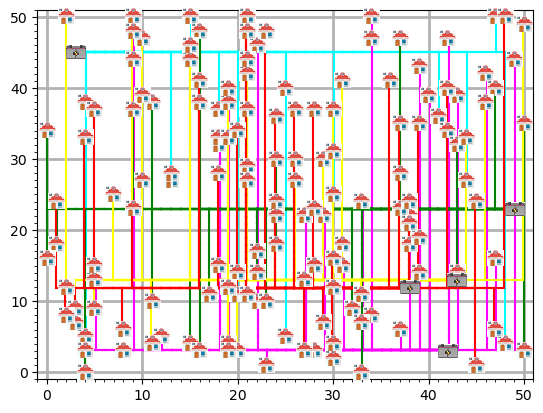
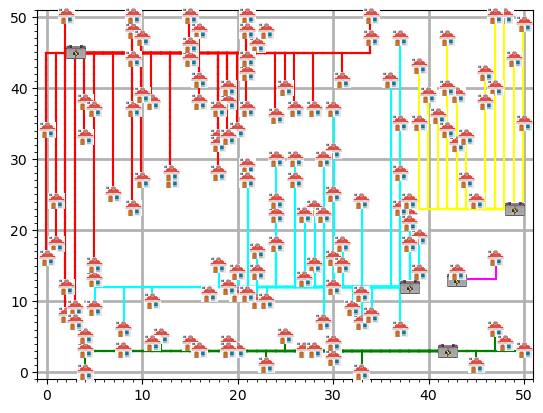
best en worst case

diff --git a/tests/test.py b/tests/test.py
@@ -13,6 +13,8 @@ from models.Grid import Grid
 from algorithms.randomize_dist_cap import dist_cap_algorithm
 from algorithms.randomize_cable_dist_cap import rand_cable_dist_cap
 from algorithms.randomize import rand_algorithm, rand_one_to_one_algorithm
+from algorithms.worst_dist_no_capacity_restrictions import worst_dist
+from algorithms.best_dist_no_capacity_restrictions import best_dist
 from visualisation.plot_grid import draw
 
 # Main functie
@@ -32,7 +34,7 @@ def main():
 
     sys_algorithm = sys.argv[2]
 
-    if sys_algorithm not in ['1', '2', '3']:
+    if sys_algorithm not in ['1', '2', '3', '4', '5']:
         print("No such algorithm!")
         exit(1)
 
@@ -48,7 +50,7 @@ def main():
         print("Shared must be 0 or 1")
         exit(1)
 
-    algorithms = {'1': rand_one_to_one_algorithm, '2': dist_cap_algorithm, '3': rand_cable_dist_cap}
+    algorithms = {'1': rand_one_to_one_algorithm, '2': dist_cap_algorithm, '3': rand_cable_dist_cap, '4': worst_dist, '5': best_dist}
     algorithm = algorithms[sys_algorithm]
 
     """Algoritme kosten en run-time test, om de slechtste kosten en run-time in x pogingen te vinden"""

diff --git a/algorithms/worst_dist_no_capacity_restrictions.py b/algorithms/worst_dist_no_capacity_restrictions.py
@@ -1,0 +1,30 @@
+def find_worst_battery(batterijen, huis):
+    """
+    Zoekt de verste batterij voor een gegeven huis, waarbij de output niet uitmaakt
+    """
+    slechtste_index = 0
+    max_afstand = 0
+
+    for index, batterij in enumerate(batterijen):
+        try:
+            afstand_batterij = huis.distance(batterij)
+
+            if afstand_batterij > max_afstand:
+                slechtste_index = index
+                max_afstand = afstand_batterij
+
+        except IndexError:
+            pass
+
+    return batterijen[slechtste_index]
+
+
+def worst_dist(grid):
+    """
+    Algoritme die de slechtse batterij voor een huis linkt
+    """
+    huizen = grid.get_huizen()
+    batterijen = grid.get_batterijen()
+    for huis in huizen:
+        batterij = find_worst_battery(batterijen, huis)
+        batterij.lay_cable_to_house(huis)

diff --git a/algorithms/best_dist_no_capacity_restrictions.py b/algorithms/best_dist_no_capacity_restrictions.py
@@ -1,0 +1,30 @@
+def find_best_battery(batterijen, huis):
+    """
+    Zoekt de verste batterij voor een gegeven huis, waarbij de output niet uitmaakt
+    """
+    optimale_index = 0
+    min_afstand = 101
+
+    for index, batterij in enumerate(batterijen):
+        try:
+            afstand_batterij = huis.distance(batterij)
+
+            if afstand_batterij < min_afstand:
+                optimale_index = index
+                min_afstand = afstand_batterij
+
+        except IndexError:
+            pass
+
+    return batterijen[optimale_index]
+
+
+def best_dist(grid):
+    """
+    Algoritme die de slechtse batterij voor een huis linkt
+    """
+    huizen = grid.get_huizen()
+    batterijen = grid.get_batterijen()
+    for huis in huizen:
+        batterij = find_best_battery(batterijen, huis)
+        batterij.lay_cable_to_house(huis)

diff --git a/visualisation/plot_grid.py b/visualisation/plot_grid.py
@@ -72,7 +72,7 @@ def draw(grid):
                     # x2, y2 = [22, 20], [21, 20]
 
                     kabel1, kabel2 = list(kabel), list(kabels[index + 1])
-                    print(kabel2)
+                    #print(kabel2)
                     dashes = {"red":-0.1, "yellow":-0.05, "green":0, "cyan":0.05, "magenta":0.1}
                     x1, y1 = [
                                 kabel1[0] + dashes[kleuren[batterij_index]],
